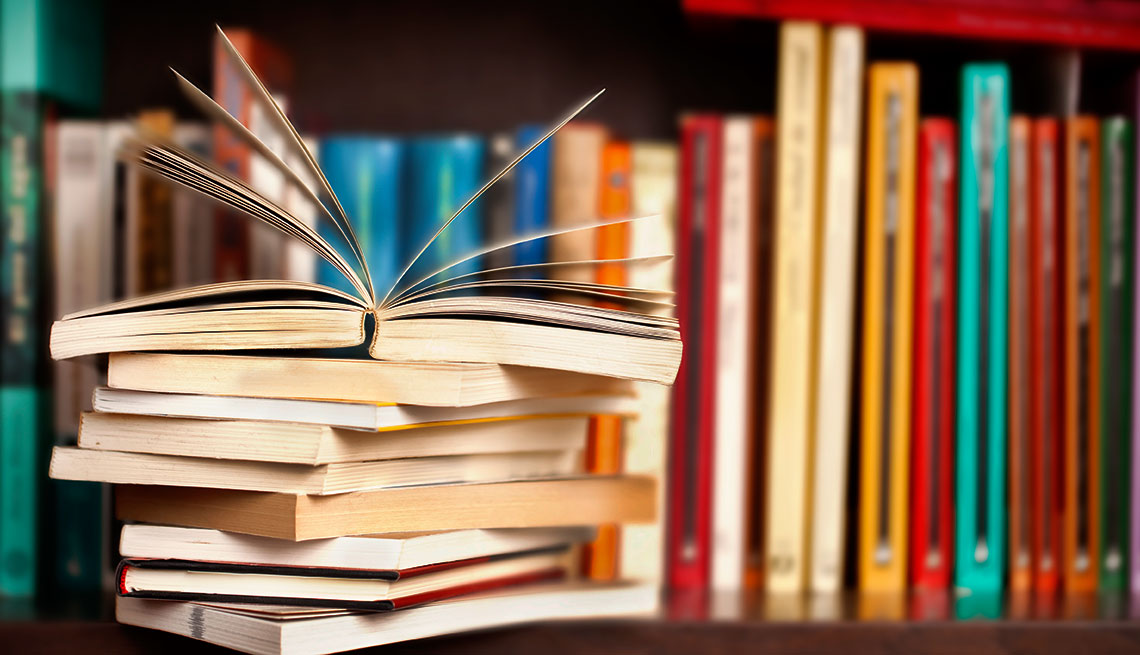
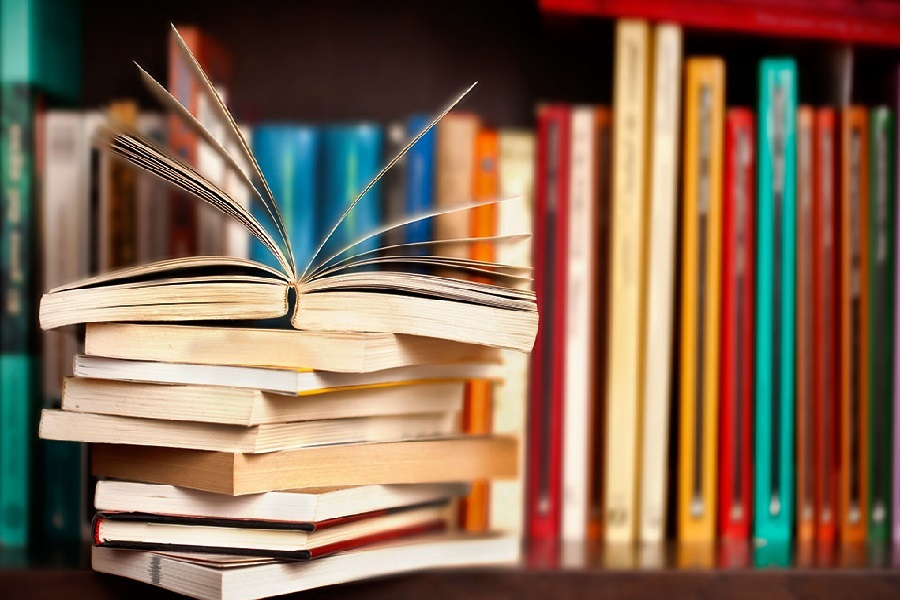
Created new panel named LeftPanel.java

diff --git a/LibraryLogin.java b/LibraryLogin.java
@@ -5,16 +5,16 @@ import java.sql.*;
 import java.awt.*;
 
 public class LibraryLogin extends JFrame implements ActionListener{
-	JLabel signLabel, nameLabel, emailLabel, passwordLabel,termLabel,termLabel2,imgLabel1;
+	JLabel signLabel, nameLabel, emailLabel, passwordLabel,termLabel,termLabel2;
 	JTextField  nameTF, emailTF;
 	JPasswordField  passPF2;
 	JButton btnLogin, btnExit, btnSignUp;
-	//private JCheckBox checkBox1;
-	private ImageIcon img;
+
 	JPanel MainPanel;
 	TopPanelLogin topPanelLogin;
+	LeftPanel leftPanel;
 
-	  Font f4= new Font("Cambria",Font.BOLD, 17);
+	Font f4= new Font("Cambria",Font.BOLD, 17);
 
 	public LibraryLogin(){
 		super("Login Window");
@@ -28,6 +28,7 @@ public class LibraryLogin extends JFrame implements ActionListener{
 		MainPanel.setLayout(null);
 
 		topPanelLogin = new TopPanelLogin();
+		leftPanel= new LeftPanel();
 
 		signLabel = new JLabel("New here? Create a free account");
 		signLabel.setBounds(925, 200, 400, 30);
@@ -79,12 +80,11 @@ public class LibraryLogin extends JFrame implements ActionListener{
 		btnExit.addActionListener(this);
 		MainPanel.add(btnExit);
 
-		img = new ImageIcon("pic1.jpg");
-		imgLabel1 = new JLabel(img);
-		imgLabel1.setBounds(-310, 100, 1280, 600);
-		MainPanel.add(imgLabel1);
-
 		MainPanel.add(topPanelLogin);
+		this.add(MainPanel);
+		this.setResizable(false);
+
+		MainPanel.add(leftPanel);
 		this.add(MainPanel);
 		this.setResizable(false);
 	}

diff --git a/LeftPanel.java b/LeftPanel.java
@@ -1,0 +1,26 @@
+import java.lang.*;
+import javax.swing.*;
+import java.awt.event.*;
+import java.sql.*;
+import java.awt.*;
+
+public class LeftPanel extends JPanel implements ActionListener{
+
+    JLabel imgLabel1;
+    ImageIcon img;
+
+    public LeftPanel(){
+
+        super();
+        setBounds(0, 0 , 900, 800);
+        setLayout(null);
+
+        img = new ImageIcon("pic1.jpg");
+        imgLabel1 = new JLabel(img);
+        imgLabel1.setBounds(0, 0, 900, 800);
+        add(imgLabel1);
+
+      }
+
+        public void actionPerformed(ActionEvent ae){}
+}
